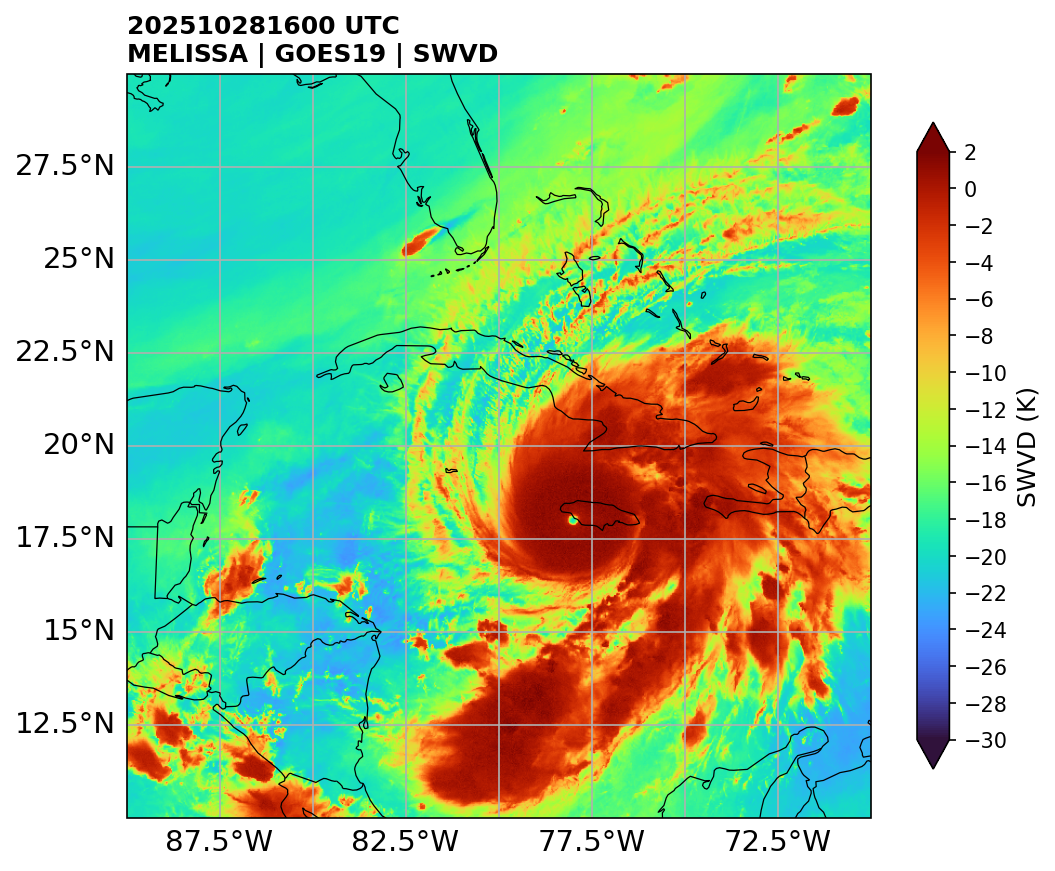
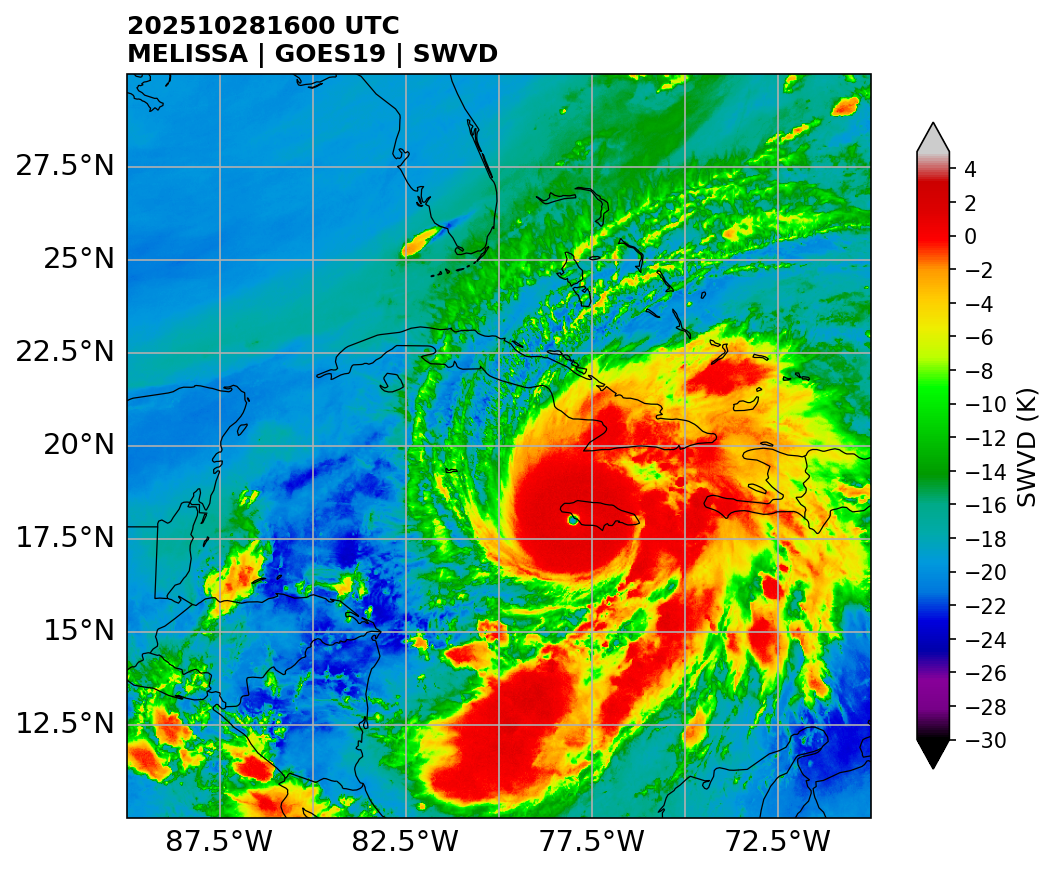
Ajusta faixa e paleta do SWVD (-30/5, nipy_spectral)

diff --git a/produto_plot.py b/produto_plot.py
@@ -102,7 +102,7 @@ def get_colormap(canal, usar_noaa=False):
         # céu claro bem negativo). Ajustar se surgir uma referência com stops oficiais.
         return 'RdBu_r', -30, 10, "SOD (K)"
     elif canal == 'swvd':
-        return 'turbo', -30, 2, "SWVD (K)"
+        return 'nipy_spectral', -30, 5, "SWVD (K)"
     else:
         return cmap_gray_r, -40, 80, "Brightness Temperature (C)"
 
